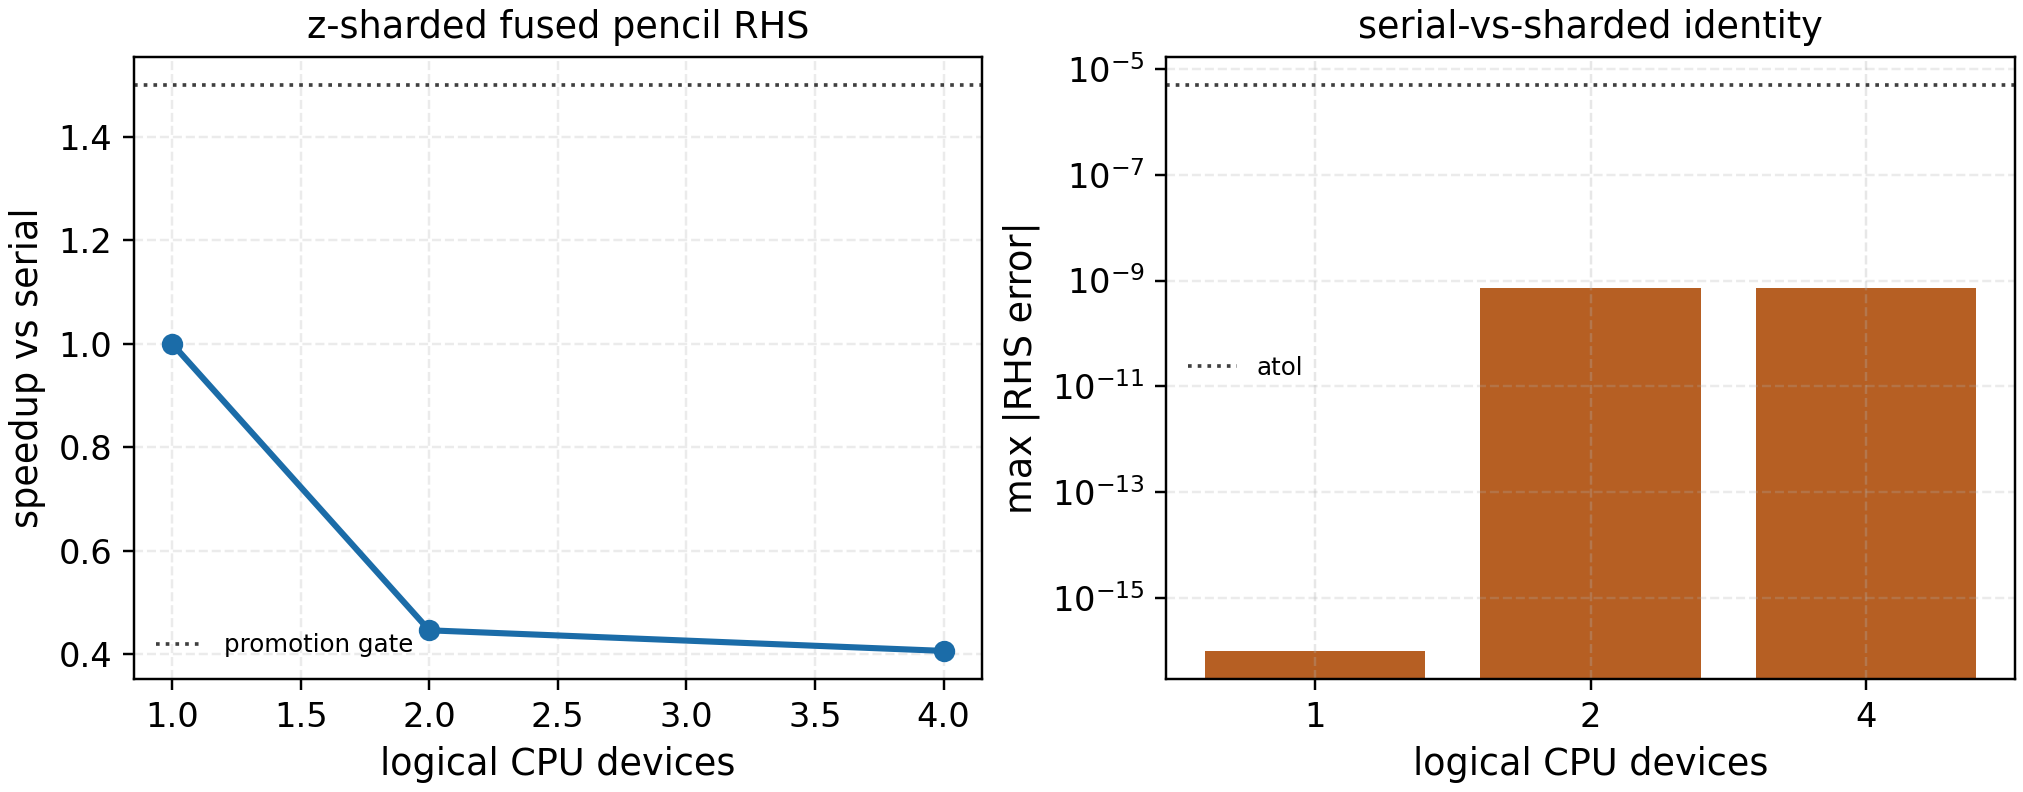
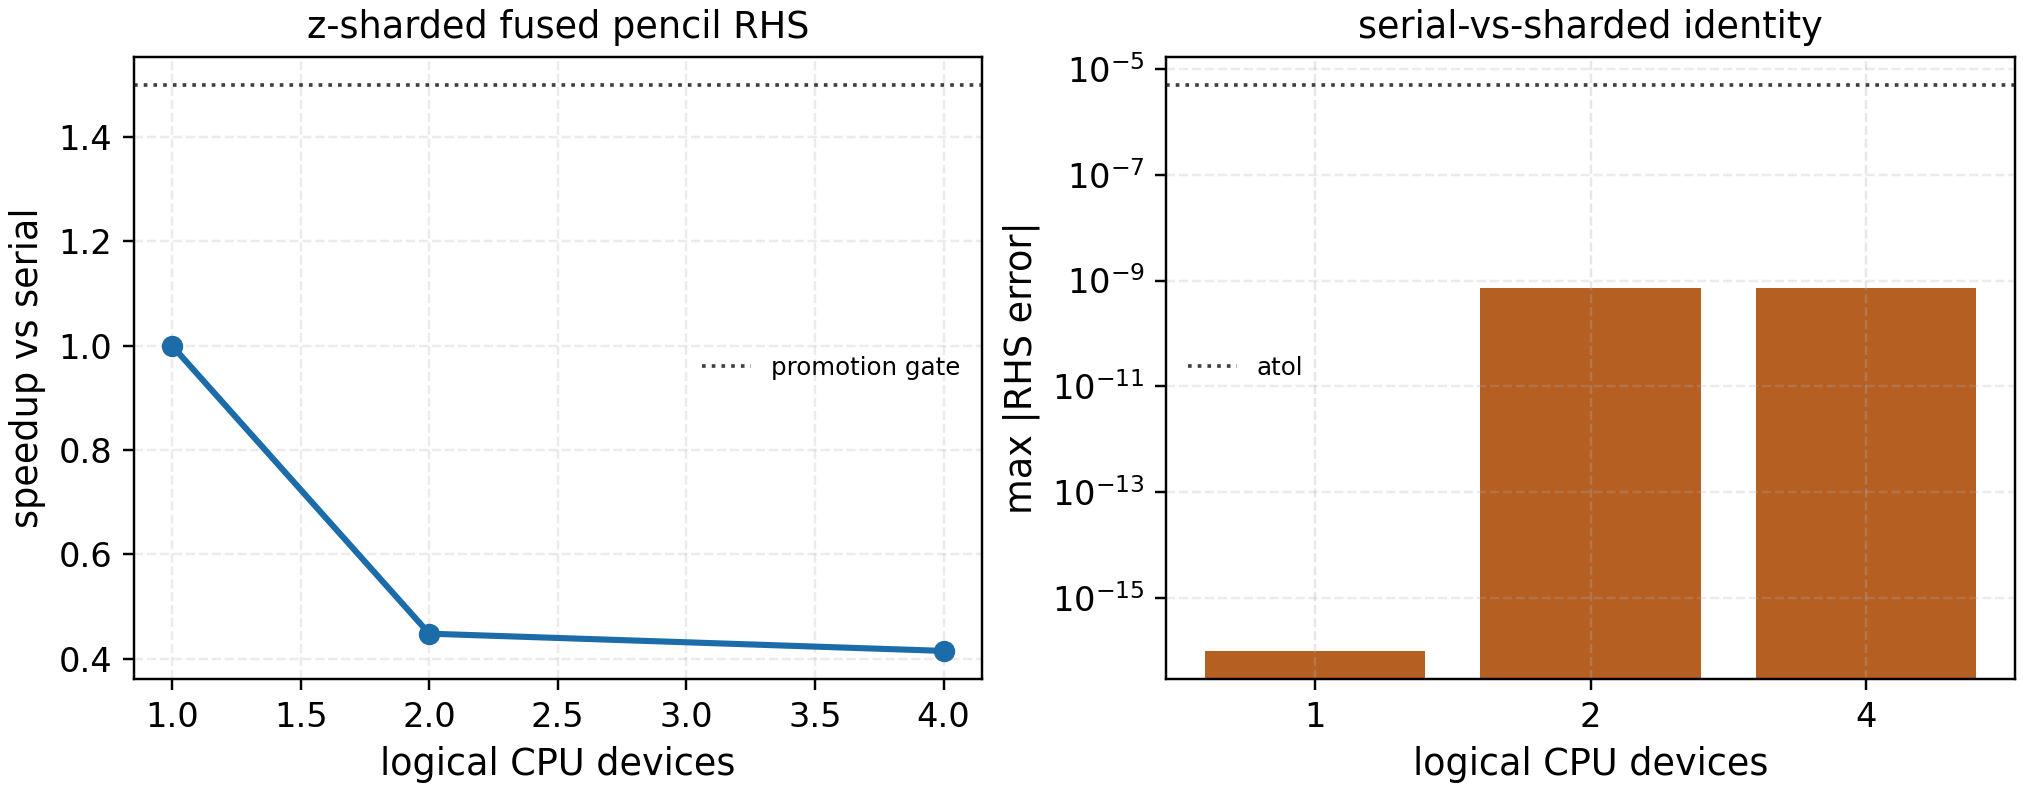
Track device pencil GPU blocker

diff --git a/tools/profile_device_z_pencil_nonlinear_rhs.py b/tools/profile_device_z_pencil_nonlinear_rhs.py
@@ -86,7 +86,7 @@ def build_profile(
     rtol: float,
     min_speedup: float,
 ) -> dict[str, Any]:
-    from spectraxgk.nonlinear_parallel import (
+    from spectraxgk.nonlinear_parallel import (  # type: ignore[import-untyped]
         _pencil_nonlinear_spectral_rhs,
         _serial_nonlinear_spectral_rhs,
         deterministic_nonlinear_spectral_state,
@@ -194,10 +194,20 @@ def build_profile(
         )
 
     active_rows = [row for row in rows if row["active"] and row["device_count"] > 1]
-    max_speedup = max((float(row["speedup_vs_serial"]) for row in active_rows), default=1.0)
+    measured_speedups = [
+        float(row["speedup_vs_serial"])
+        for row in active_rows
+        if row.get("speedup_vs_serial") is not None
+    ]
+    max_speedup = max(measured_speedups, default=1.0)
     all_active_identity = all(bool(row["identity_passed"]) for row in active_rows)
     speedup_gate = any(bool(row["speedup_gate_passed"]) for row in active_rows)
-    status = "production_speedup_candidate" if speedup_gate else "identity_timed_no_production_speedup"
+    if speedup_gate:
+        status = "production_speedup_candidate"
+    elif active_rows and not all_active_identity:
+        status = "identity_failed_no_production_speedup"
+    else:
+        status = "identity_timed_no_production_speedup"
     if not active_rows:
         status = "skipped_no_multidevice"
 
@@ -235,7 +245,7 @@ def write_artifacts(summary: dict[str, Any], out_prefix: Path) -> None:
     matplotlib.use("Agg")
     import matplotlib.pyplot as plt
 
-    from spectraxgk.plotting import set_plot_style
+    from spectraxgk.plotting import set_plot_style  # type: ignore[import-untyped]
 
     out_prefix.parent.mkdir(parents=True, exist_ok=True)
     out_json = out_prefix.with_suffix(".json")
@@ -258,6 +268,7 @@ def write_artifacts(summary: dict[str, Any], out_prefix: Path) -> None:
                 "speedup_gate_passed",
                 "blocked_reasons",
             ],
+            lineterminator="\n",
         )
         writer.writeheader()
         for row in rows:

diff --git a/docs/parallelization.rst b/docs/parallelization.rst
@@ -253,7 +253,11 @@ serial-vs-sharded RHS identity on two and four CPU devices for a
 ``(4,16,96,96,32)`` nonlinear bracket workload, with maximum absolute RHS error
 ``7.4e-10``. It is still slower than serial on this machine (``0.45x`` on two
 logical CPU devices and ``0.41x`` on four), so it is a correctness/profiling
-milestone rather than a production speedup claim.
+milestone rather than a production speedup claim. The matching two-GPU office
+artifact ``docs/_static/nonlinear_device_z_pencil_rhs_gpu2_profile.json`` is
+stricter negative evidence: the route is active, but the two-GPU RHS comparison
+fails the absolute identity gate (``max_abs_error=1.95e-3``), so the GPU row is
+not timed and cannot support any speedup claim.
 
 Before nonlinear domain decomposition can be promoted beyond this diagnostic
 state, the runtime route must pass all of the following gates on the same

diff --git a/docs/performance.rst b/docs/performance.rst
@@ -58,7 +58,11 @@ identity on a ``(4,16,96,96,32)`` bracket workload with maximum absolute error
 ``7.4e-10``, but the logical-CPU timing is slower than serial (best observed
 speedup ``0.45x``). This is intentionally recorded as negative profiler
 evidence: production nonlinear domain speedup remains open until the same route
-or a better one clears the ``1.5x`` gate on CPU/GPU hardware.
+or a better one clears the ``1.5x`` gate on CPU/GPU hardware. The two-GPU office
+artifact ``docs/_static/nonlinear_device_z_pencil_rhs_gpu2_profile.json`` is
+also negative: the active two-GPU route fails the strict absolute RHS identity
+gate (``max_abs_error=1.95e-3``), so GPU timing is not used for any speedup
+claim.
 
 Nonlinear profiling
 -------------------

diff --git a/plan.md b/plan.md
@@ -673,7 +673,7 @@ historical logs live outside the release repository so clones stay small.
 | VMEC/Boozer holdout optimization | 100% | Closed for the current pre-manuscript gate: reduced alpha/surface, second-equilibrium, gradient holdout matrix, and aggregate promotion gates pass |
 | Docs/readme/release hygiene | 100% | Public wording separates reduced linear/QL landscape metrics from true nonlinear heat-flux evidence; strict-QA t1500, CTH high-grid, and QL holdout-gap artifacts are tracked |
 | Performance/parallelization release lane | 96% | Independent-work parallel paths are release-ready; nonlinear sharding profiler provenance is versioned and checker-gated, while whole-state/domain speedup remains diagnostic |
-| Production nonlinear domain-decomposition speedup | 75% | Strict pre-manuscript gate remains partial: local, spectral, combined, routed timing, pencil fused-bracket, physical transport-window, and active device-z pencil RHS identity pass. The global-reconstruction route has communication/owned-work ratio `6.375`; the pencil model reduces communication/FFT-work ratio to `0.075`; the active logical-CPU z-pencil profile has max RHS error `7.4e-10` but only `0.45x` best speedup, so CPU/GPU production-speedup gates remain below `1.5x` |
+| Production nonlinear domain-decomposition speedup | 76% | Strict pre-manuscript gate remains partial: local, spectral, combined, routed timing, pencil fused-bracket, physical transport-window, and active device-z pencil RHS identity pass on logical CPU. The global-reconstruction route has communication/owned-work ratio `6.375`; the pencil model reduces communication/FFT-work ratio to `0.075`; the active logical-CPU z-pencil profile has max RHS error `7.4e-10` but only `0.45x` best speedup; the two-GPU office profile is active but fails strict absolute RHS identity (`1.95e-3`), so CPU/GPU production-speedup gates remain blocked |
 | QA optimization optimizer-comparison metadata | 100% | Public examples emit strict nonlinear audit manifests; optimizer/full-sweep generators now separate restart-ladder and direct full-horizon commands, add output gates, and admit only completed true t=1500 replicated ensembles; the matched QL comparison is closed and non-promoted |
 | External-VMEC high-grid holdout policy | 100% | CTH-like modified-protocol launch, horizon gates, `n80` seed/timestep long-window replicate gate, and explicit high-grid admission policy are reproducible; full `n48/n64/n80` remains non-claimable |
 | Optimizer comparison campaign execution | 76% | Metadata/generators, strategy report, and solved-WOUT prelaunch metric gate are ready; actual multistart/continuation/SPSA-CMA-BO campaign remains planned unless promoted to a new run tranche |
@@ -1692,3 +1692,4 @@ No long nonlinear audit should be launched from these candidates.
   without the old immediate non-finite diagnostic failure, but they remain
   short diagnostic probes rather than accepted long-window overlays.
 - Added a real device-z fused pencil nonlinear RHS route and CPU4 profile artifact. The route shards the field-line `z` axis with JAX device sharding, keeps `(k_y,k_x)` FFTs local on each device, and avoids global spectral tile reconstruction. The active logical-CPU check in `docs/_static/nonlinear_device_z_pencil_rhs_cpu4_profile.json` passes serial-vs-sharded RHS identity on two and four devices for a `(4,16,96,96,32)` bracket workload (`max_abs_error=7.36e-10`, `max_rel_error=3.72e-7`), but it remains slower than serial (`0.45x` on two logical CPU devices and `0.41x` on four). This raises the production nonlinear domain-decomposition lane from implementation-only to real-device identity/profiler evidence, but the production speedup gate remains fail-closed until a CPU/GPU route clears the `1.5x` speedup threshold.
+- Ran the same device-z fused pencil nonlinear RHS profiler on `office` using two CUDA devices from a fresh shallow clone at current main. The GPU route was active but did not pass the strict absolute RHS identity gate for the `(4,16,96,96,32)` workload (`max_abs_error=1.947e-3`, `max_rel_error=6.18e-5`), so the two-GPU row was not timed and no GPU speedup claim is allowed. The negative artifact is tracked as `docs/_static/nonlinear_device_z_pencil_rhs_gpu2_profile.{json,csv,png}`. Next implementation work should localize whether this is precision/FFT-ordering, sharding layout, or cross-device collective behavior before attempting speedup optimization.